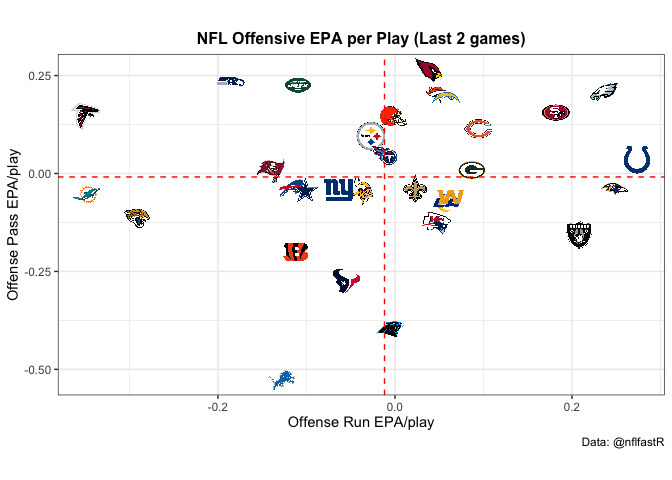
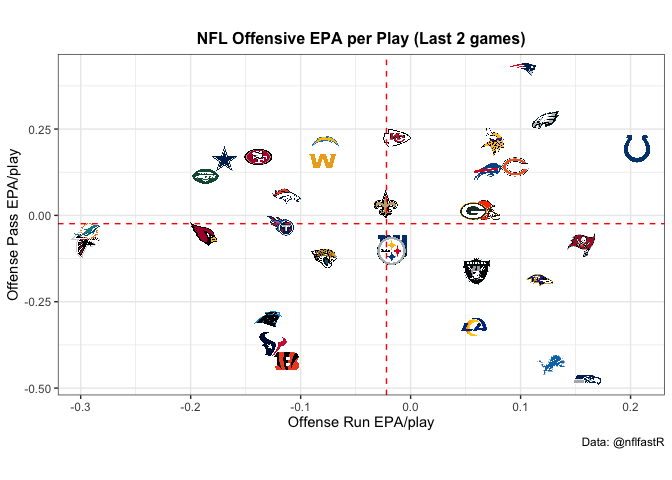
2021-11-16

diff --git a/NFL-Report.md b/NFL-Report.md
@@ -1,5 +1,5 @@
 
-# NFL Landscape: Week 9
+# NFL Landscape: Week 10
 
 ### Overall Efficiency Landscape
 
